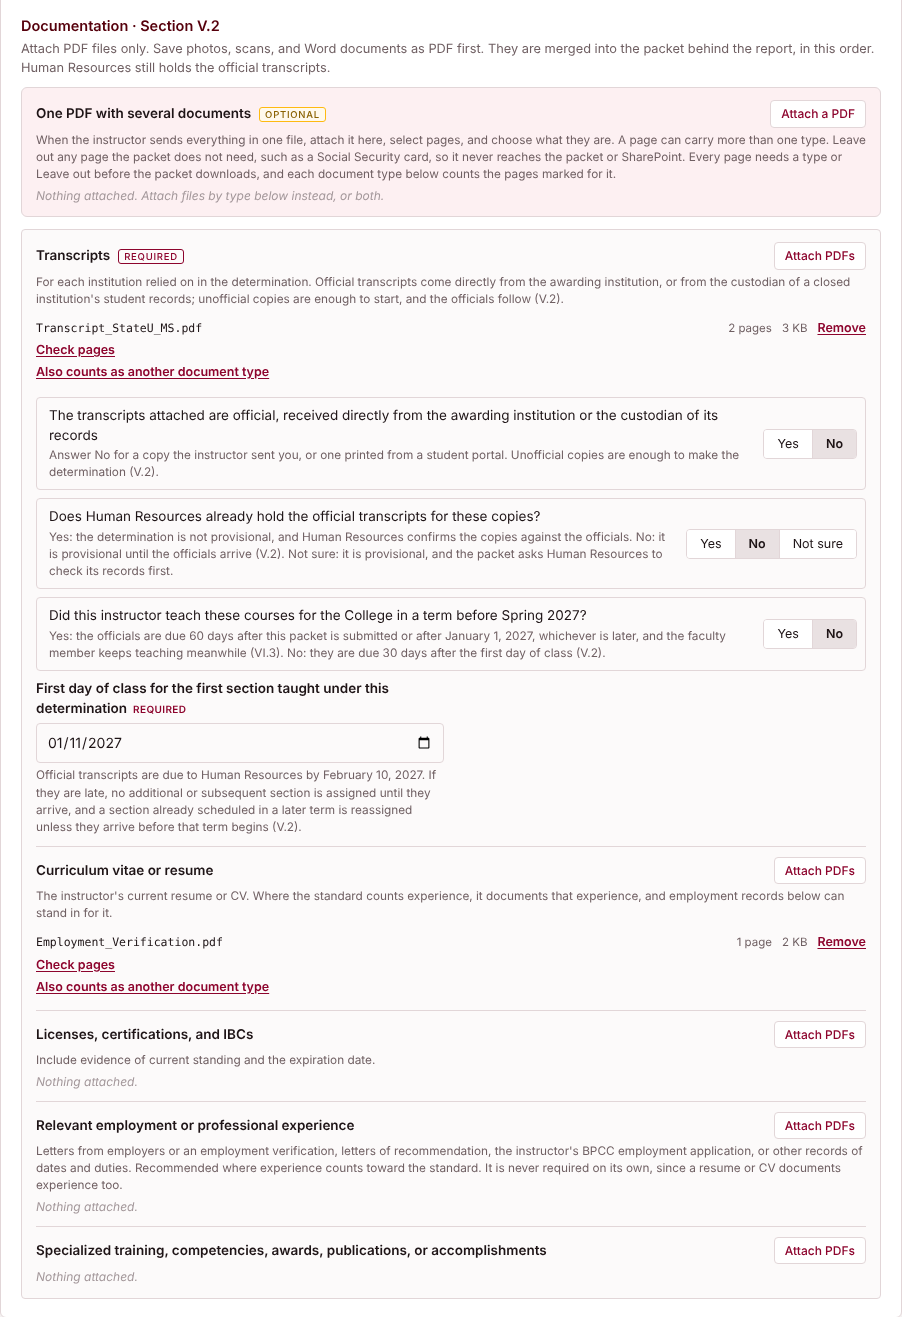
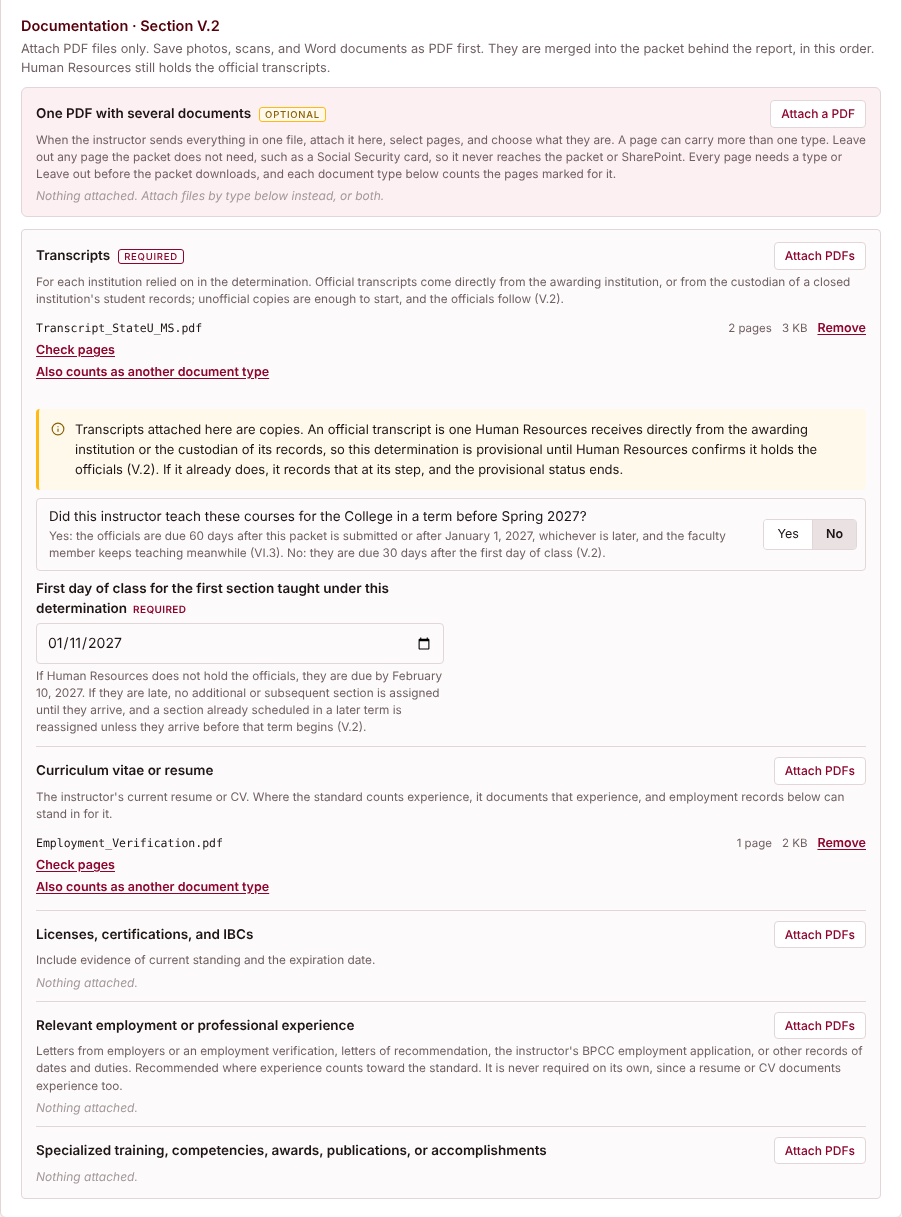
Guide for Portal Build 2026-11-11: transcripts are copies, provisional until HR confirms
Rewrites the transcript passages for the new Step 3 (no officials questions,
the first day of class filled from the term's earliest session) and retakes the
screenshots for the new build.

Claude-Session: https://claude.ai/code/session_01J5K1hrFZRbbxqvc37tqu1t

Changed region(s): [[0.031, 0.0, 0.9623, 0.9992], [0.8692, 0.9367, 0.9623, 0.968], [0.9002, 0.3122, 0.9623, 0.3435]]

diff --git a/index.html b/index.html
@@ -544,7 +544,7 @@ figure.w100 img { width: 100%; }
     <tr><th>What</th><th>Details</th></tr>
     <tr><td class="k">The instructor</td><td>First and last name and employee ID. Everyone credentialed in the Portal already has one from Human Resources: an L-number, or an H-number for some longtime employees.</td></tr>
     <tr><td class="k">The courses</td><td>Prefix and number for each course, all in one division. Courses in another division go in a separate packet, since each division's dean reviews its own courses (Section V.3).</td></tr>
-    <tr><td class="k">Transcripts</td><td>For every institution relied on, degrees and coursework alike, including the credential an exception-based request names. Unofficial copies the instructor sends are enough to make the determination; the official transcripts go to Human Resources (section 9).</td></tr>
+    <tr><td class="k">Transcripts</td><td>For every institution relied on, degrees and coursework alike, including the credential an exception-based request names. Attach the copies the instructor sends. The official transcripts go from each institution directly to Human Resources (sections 6 and 9).</td></tr>
     <tr><td class="k">Licenses, certifications, and IBCs</td><td>For technical courses, with current standing and the expiration date. The Portal asks for the date of each one a standard relies on, and the packet lists them so Academic Affairs can follow up before they lapse (Section V.12).</td></tr>
     <tr><td class="k">Curriculum vitae or resume</td><td>Helpful for any instructor. Where a standard counts experience, the resume or CV documents it.</td></tr>
     <tr><td class="k">Employment records</td><td>Letters from employers or an employment verification, letters of recommendation, the instructor's BPCC employment application, or other records of dates and duties. Recommended where a standard counts experience, and never required on their own, since a resume or CV documents experience too. Years of experience alone do not demonstrate competencies (Section IV).</td></tr>
@@ -611,7 +611,7 @@ figure.w100 img { width: 100%; }
       <dt>Packet</dt><dd>How many documents are attached, and how many items are left before the packet can download.</dd>
     </dl>
   </figure>
-  <p>The label at the foot of the page, <span class="mono">Portal Build 2026-11-09b</span> for example, is also recorded inside every packet and draft, so Academic Affairs can match a packet to the build that made it.</p>
+  <p>The label at the foot of the page, <span class="mono">Portal Build 2026-11-11</span> for example, is also recorded inside every packet and draft, so Academic Affairs can match a packet to the build that made it.</p>
 </section>
 
 <!-- ============ 5 STEPS ============ -->
@@ -631,8 +631,8 @@ figure.w100 img { width: 100%; }
       <figure class="w75" style="margin-top:6pt"><img src="shots/05_field_list.png" alt="The field list open, with Applied Mathematics and Mathematics as qualifying fields"><figcaption>The field list. A degree whose field is not listed goes under <em>A field the Matrix does not name for these courses</em>.</figcaption></figure>
       <figure class="w75" style="margin-top:6pt"><img src="shots/06a_step3_instructor.png" alt="Step 3 with the instructor and the master's degree entered"><figcaption>Step 3, the instructor and the credential.</figcaption></figure>
     </li>
-    <li><b class="h">Attach the documents and answer the transcript questions.</b>Attach each document under its type, or attach the instructor's single PDF and mark its pages (section 3). Tags mark what this record requires, and what is only recommended. Once transcripts are attached, the Portal asks whether they are official and, if not, whether Human Resources already holds the officials. Section 6 explains what each answer does.
-      <figure class="w75" style="margin-top:6pt"><img src="shots/06b_step3_documents.png" alt="The documentation section with a transcript and a CV attached"><figcaption>Unofficial copies with the officials not yet on file make the determination provisional, and the Portal works out the due date.</figcaption></figure>
+    <li><b class="h">Attach the documents and check the transcript date.</b>Attach each document under its type, or attach the instructor's single PDF and mark its pages (section 3). Tags mark what this record requires, and what is only recommended. Once transcripts are attached, the Portal fills in the first day of class that sets when the officials are due, and you change it if the first section starts later. Section 6 explains how it works.
+      <figure class="w75" style="margin-top:6pt"><img src="shots/06b_step3_documents.png" alt="The documentation section with a transcript and a CV attached"><figcaption>Transcripts attached are copies, so the determination is provisional until Human Resources confirms it holds the officials. The Portal works out the due date.</figcaption></figure>
     </li>
     <li><b class="h">Read the determination.</b>Step 4 evaluates each route course by course as you type. When a route is met, the record proceeds as a standard review under Section V.3. When none is met, Step 4 says why and offers what comes next (section 7). Expedited review is requested here (section 6).
       <figure class="w75" style="margin-top:6pt"><img src="shots/09_step4.png" alt="Step 4 showing the academic route met"><figcaption>Step 4. The academic route is met through a master's in a qualifying field.</figcaption></figure>
@@ -675,16 +675,16 @@ figure.w100 img { width: 100%; }
 
   <h2>Institutions</h2>
   <p>Every institution relied on, for the degree or any coursework counted, must have been accredited by a body recognized by the U.S. Department of Education or CHEA at the time (Section V.2). A degree or coursework earned outside the United States needs a course-by-course evaluation before the determination is final.</p>
-  <p>When an institution relied on has closed, its student records usually pass to a custodian, often a state agency or another college. An official transcript from the custodian counts as official, and the transcript questions below apply to it as to any other. When the records do not survive, the instructor provides a written statement that they are unavailable, from the custodian or the state agency responsible for them, with any other evidence of the degree or coursework, such as the diploma or a licensing board's verification. Attach it under <strong>Closed institution</strong>. The Associate Vice Chancellor of Instruction decides whether that evidence documents the degree or coursework, and if it does, it stands in place of that institution's official transcripts. Transcripts from any other institution relied on are still required (Section V.2).</p>
+  <p>When an institution relied on has closed, its student records usually pass to a custodian, often a state agency or another college. An official transcript the custodian sends to Human Resources counts as official, like any other. When the records do not survive, the instructor provides a written statement that they are unavailable, from the custodian or the state agency responsible for them, with any other evidence of the degree or coursework, such as the diploma or a licensing board's verification. Attach it under <strong>Closed institution</strong>. The Associate Vice Chancellor of Instruction decides whether that evidence documents the degree or coursework, and if it does, it stands in place of that institution's official transcripts. Transcripts from any other institution relied on are still required (Section V.2).</p>
 
   <div class="avoid">
   <h2>Transcripts</h2>
-  <p>A determination can rest on unofficial transcript copies. Once transcripts are attached, the Portal asks three things.</p>
+  <p>Transcripts attached to a packet are copies. An official transcript is one Human Resources receives directly from the awarding institution, or from the custodian of a closed institution's records, so a copy the instructor sent or one printed from a student portal never is (Section V.2). Every determination that relies on transcripts is provisional until Human Resources confirms it holds the officials. If it already does, it records that at its step in the approval route, and the provisional status ends. If not, the officials are due by the date in the packet.</p>
+  <p>Once transcripts are attached, Step 3 sets that date with up to two questions.</p>
   <div class="tbl"><table>
-    <tr><th>Question</th><th>What each answer does</th></tr>
-    <tr><td class="k">Are the transcripts attached official?</td><td>Official means received directly from the awarding institution, or from the custodian of a closed institution's records. A copy the instructor sent, or one printed from a student portal, is not.</td></tr>
-    <tr><td class="k">Does Human Resources already hold the officials?</td><td><strong>Yes:</strong> the determination is not provisional, and Human Resources confirms the copies against the officials. <strong>No:</strong> it is provisional until the officials arrive. <strong>Not sure:</strong> it is provisional, and the packet asks Human Resources to check its records first.</td></tr>
-    <tr><td class="k">Did the instructor teach these courses for the College before Spring 2027?</td><td>Asked only on a provisional Spring 2027 packet. <strong>Yes:</strong> the officials are due 60 days after the packet is submitted or after January 1, 2027, whichever is later (Section VI.3), and the faculty member keeps teaching meanwhile. <strong>No:</strong> they are due 30 calendar days after the first day of class for the first section taught under the determination, which you enter (Section V.2).</td></tr>
+    <tr><th>Question</th><th>What it does</th></tr>
+    <tr><td class="k">Did the instructor teach these courses for the College before Spring 2027?</td><td>Asked only on a Spring 2027 packet. <strong>Yes:</strong> the officials are due 60 days after the packet is submitted or after January 1, 2027, whichever is later (Section VI.3), the faculty member keeps teaching meanwhile, and no first day of class is asked. <strong>No:</strong> they are due 30 calendar days after the first day of class (Section V.2).</td></tr>
+    <tr><td class="k">First day of class for the first section taught under the determination</td><td>Filled in with the first day of the term's earliest session, which is Winter session (December 15, 2026) for Spring 2027 and Maymester (May 18, 2027) for Summer 2027. Change it if the first section starts later. A later term asks for the date until its calendar is published. The officials are due 30 calendar days after it (Section V.2).</td></tr>
   </table></div>
   </div>
   <p>The packet prints the due date. Section 9 explains what happens if the officials are late.</p>
@@ -785,7 +785,7 @@ figure.w100 img { width: 100%; }
   <p class="lede">Each packet becomes one submission in Jotform, and the approval workflow routes it by record type. Every decision and signature is recorded on that submission.</p>
 
   <h2>The approval form</h2>
-  <p>The Portal fills in the record's details. Attach the PDF and check the attestation that it is the file the Portal produced, accurate and complete, then submit. On a provisional record, the due date and the section it falls under (Section V.2 or VI.3) come filled in. A packet a program director prepared also carries the program director's email, so the notices reach them too. A thank-you page then summarizes what happens next.</p>
+  <p>The Portal fills in the record's details. Attach the PDF and check the attestation that it is the file the Portal produced, accurate and complete, then submit. On a record that relies on transcripts, the due date and the section it falls under (Section V.2 or VI.3) come filled in. A packet a program director prepared also carries the program director's email, so the notices reach them too. A thank-you page then summarizes what happens next.</p>
 
   <h2>The approval route</h2>
   <p>The packet prints its own route in its Approval route section. In outline:</p>
@@ -870,7 +870,7 @@ figure.w100 img { width: 100%; }
     <dd>Courses in one division can go in one packet, so agree with the other program director on who prepares it. Courses in another division always need their own packet, prepared and submitted through that division.</dd>
 
     <dt>Can I use the transcript copies the instructor sent me?</dt>
-    <dd>Yes. A determination can rest on unofficial copies. If Human Resources does not already hold the officials, the determination is provisional until they arrive, and the packet prints the due date (section 6).</dd>
+    <dd>Yes. Every transcript attached to a packet is a copy, so the determination is provisional until Human Resources confirms it holds the officials, and the packet prints the date they are due if it does not (section 6).</dd>
 
     <dt>The course I need is not in the list, or shows Not in the Matrix.</dt>
     <dd>The Portal lists the active academic courses in the Banner extract dated 8/7/26, and a course the Matrix does not list cannot be determined. Those are courses leaving the catalog. If you need one, contact Academic Affairs before building the packet.</dd>
@@ -929,7 +929,7 @@ figure.w100 img { width: 100%; }
       <a class="book-btn" href="https://bookings.cloud.microsoft/bookwithme/user/1b384762461c48428e36236a2bc28d64%40bpcc.edu?anonymous&amp;ismsaljsauthenabled=true" target="_blank" rel="noopener"><svg viewBox="0 0 24 24" fill="none" stroke="currentColor" stroke-width="2.2" stroke-linecap="round" stroke-linejoin="round" aria-hidden="true"><rect x="3" y="5" width="18" height="16" rx="2"/><path d="M16 3v4M8 3v4M3 10h18"/></svg>Book time with Dr. Bange</a>
     </div>
   </div>
-  <div class="end">Faculty Qualifications and Credentialing Portal · Guide for Deans, Assistant Deans, and Program Directors · Office of Academic Affairs, Bossier Parish Community College · November 2026. The screenshots show Portal Build 2026-11-09b on invented records. BPCC is a member of the LCTC System.</div>
+  <div class="end">Faculty Qualifications and Credentialing Portal · Guide for Deans, Assistant Deans, and Program Directors · Office of Academic Affairs, Bossier Parish Community College · November 2026. The screenshots show Portal Build 2026-11-11 on invented records. BPCC is a member of the LCTC System.</div>
 </section>
 
 </main>
